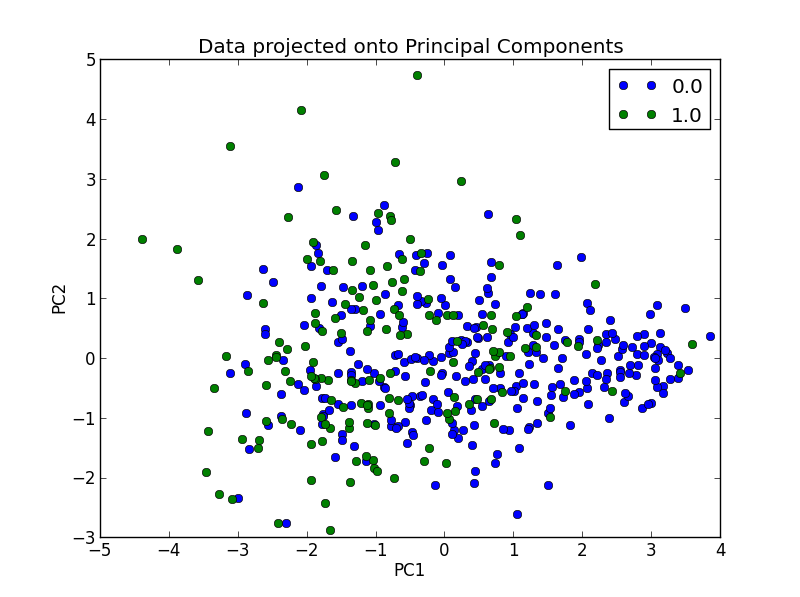
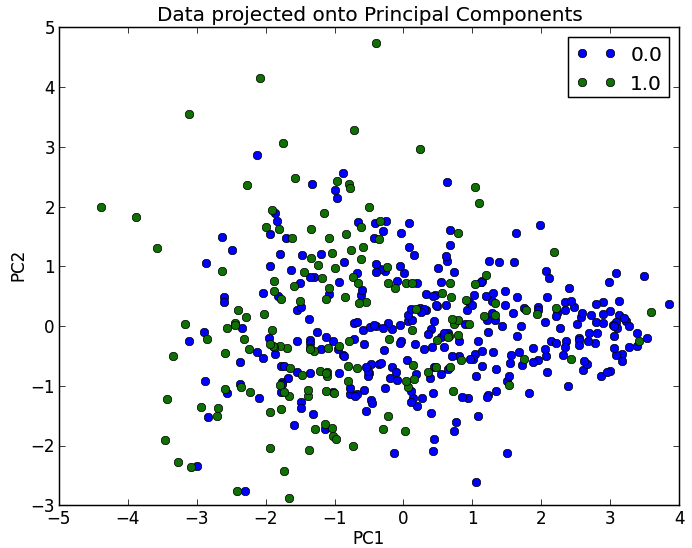
Adjusting images

diff --git a/Projekt 1/Rapport/PCA.tex b/Projekt 1/Rapport/PCA.tex
@@ -5,7 +5,8 @@
 In Figure \ref{VariancePCA}, we can see how the variance is explained by the principal component. We can see that the first principal component explains 32\% of the variance, while the second component explains 13\% of the variance. This means that we can explain 45\% of the total variance by using the two first principal components. Furthermore one can see from the graph that we need 5 principal components in order to explain 75\% of the variance, and at least 7 components to explain 90\% of the variance.
 
 \begin{figure}[H]
-\includegraphics[scale=0.75]{pictures/PCAPosAndNeg.png}
+\centering
+\includegraphics[width=7cm, keepaspectratio=true]{pictures/PCAPosAndNeg.png}
 \caption{Showing how the variance is explained by the principal components.}
 \label{VariancePCA}
 \end{figure}
@@ -37,7 +38,8 @@ PC9 & -0.0141 & -0.0478 & 0.0719 & -0.7575 & -0.0288 & -0.0406 & 0.5040 & 0.0331
 We can see the data projected onto the first two principal components in Figure \ref{PCAProjected}. At first glance it is hard to see a pattern. However one can see that most of the sick people are located in a direction, where the first principal component is negative. By comparing to how the attributes are described in this component, as shown in Figure \ref{PCADirections}, we see that this principal component are pointing in the negative direction for all the attributes, except typea which is hardly described in this component. And since we have a lot of ill subjects in this negative direction of principal component 1, it indicates that these people have high values in these attributes. Meaning these subjects have a tendency to have high adiposity for instance. The data has been standardized for doing this principal component analysis, meaning that Figure \ref{PCAProjected} indicates that many of the ill subjects has values above the mean in most attributes.
 
 \begin{figure}[H]
-\includegraphics[scale=0.75]{pictures/projectedToPCA.png}
+\centering
+\includegraphics[width=7cm, keepaspectratio=true]{pictures/projectedToPCA.png}
 \caption{Projection of data onto first two principal components.}
 \label{PCAProjected}
 \end{figure}

diff --git a/Projekt 1/Rapport/boxplot.tex b/Projekt 1/Rapport/boxplot.tex
@@ -4,8 +4,9 @@ In the following section we will discuss what the boxplots of the attributes tel
 Below is a figure representing the boxplot for the referenced attribute.
 \begin{figure}[H]
 \centering
-\includegraphics[width=12cm, keepaspectratio=true]{pictures/boxplot.png}
+\includegraphics[width=9cm, keepaspectratio=true]{pictures/boxplot.png}
 \caption{\footnotesize Boxplots}
+\vspace{-.5cm}
 \label{boxplot}
 \end{figure}
 \paragraph{SBP - Systolic Blood Pressure} shows us that most of the measured blood pressure is close to 130 mmHg. However, we see that there is some outliers in the dataset. This raises some suspicion to the readings. According to other sources \footnote{http://en.wikipedia.org/wiki/Blood\_pressure}, when the blood pressure rises above 180 mmHg for a longer period of time, organs will start to fail. This could indicate that some of the data are incorrect.
@@ -16,7 +17,7 @@ In total there are 15 outliers in this attribute, for comparison the size of the
 \paragraph{ldl - low density lipoprotein cholesterol} is measured in mmol/L. Anything above 4.9 is considered a high cholesterol \footnote{http://www.mayoclinic.com/health/cholesterol-levels/CL00001}. This seems to be consistent with the data from the boxplot. But again there are some outliers, and it does seem odd to have an ldl value more than tripple what is considered to be high.
 Here 14 of our 462 data values are outliers.%In total there are 14/462 outliers in this attribute.
 
-\paragraph{Adiposity - BAI} is an index number to group people by their size, much like BMI. The boxplot shows no outliers, and the average is consistent with what is considered to be normal. \footnote{http://easycalculation.com/health/body-adiposity-index.php}
+\paragraph{Adiposity} is an index number to group people by their size, much like BMI. The boxplot shows no outliers, and the average is consistent with what is considered to be normal \footnote{http://easycalculation.com/health/body-adiposity-index.php}.
 
 \paragraph{Famhist} is a binary value, and does not tell us anything useful in a boxplot.%Off to the next attribute.
 

diff --git a/Projekt 1/Rapport/histogram.tex b/Projekt 1/Rapport/histogram.tex
@@ -2,18 +2,13 @@
 In this section the histograms of the attributes will be covered. In the next section the boxplots for the attributes are explained. The attributes will be explained in details there.
 \begin{figure}[H]
 \centering
-\includegraphics[width=12cm, keepaspectratio=true]{pictures/histogram.png}
-\caption{\footnotesize Histograms ?? (Lille figure -> skal zoome ind)}
+\includegraphics[width=11cm, keepaspectratio=true]{pictures/histogram.png}
+\vspace{-0.2cm}
+\caption{\footnotesize Histograms}
+\vspace{-0.5cm}
 \label{histogram}
 \end{figure}
-Several of our attributes seem to be close to normally distributed. These are:
-\begin{itemize}
-\item SBP - Systolic Blood Pressure
-\item ldl - low density lipoprotein cholesterol
-\item typeA
-\item Adiposity
-\item Obesity
-\end{itemize}
+Several of our attributes seem to be close to normally distributed. These are listed below:
 \paragraph{Adiposity and Obesity}
 The latter two, Adiposity and obesity are closely connected, since they both concern the size of the body. How closely connected they are will be explained later.
 
@@ -21,15 +16,7 @@ The latter two, Adiposity and obesity are closely connected, since they both con
 
 \paragraph{SBP - Systolic Blood Pressure} 	seems to be peaking at around 130, which is considered a little bit high, but since the SBP is rising as you get older, and the average age of our dataset is over 40, this seems reasonable. The curve is extending far to the right, which will be covered in the next section covering the boxplot.
 
-Those attributes not distributed normally:
-\begin{itemize}
-\item Tobacco
-\item Famhist
-\item Alcohol
-\item Age
-\item CHD
-\end{itemize}
-
+Those attributes not distributed normally are listed below:
 \paragraph{Tobacco} indicates that most persons in the dataset does not smoke.
 \paragraph{Famhist} Is a binary attribute. Showing a few more people in the dataset does not have any family members with CHD, than who does have family history with CHD.
 \paragraph{Alcohol} looks a lot like tobacco. How closely related they are will be considered later.

diff --git a/Projekt 1/Rapport/comparison.tex b/Projekt 1/Rapport/comparison.tex
@@ -5,7 +5,8 @@ Some of the attributes we thought would be interesting to compare to each other,
 
 \begin{figure}[H]
 \centering
-\includegraphics[width=12cm, keepaspectratio=true]{pictures/tobaccoAlcohol.png}
+\includegraphics[width=7cm, keepaspectratio=true]{pictures/tobaccoAlcohol.png}
+\vspace{-0.4cm}
 \caption{\footnotesize Tobacco vs. Alcohol}
 \label{AlcoTobac}
 \end{figure}
@@ -16,7 +17,8 @@ When you look at figure \ref{ObeAsi} you see the that the higher the values get 
 
 \begin{figure}[H]
 \centering
-\includegraphics[width=12cm, keepaspectratio=true]{pictures/adiposityObesity.png}
+\includegraphics[width=7cm, keepaspectratio=true]{pictures/adiposityObesity.png}
+\vspace{-0.4cm}
 \caption{\footnotesize Adiposity vs. Obesity}
 \label{ObeAsi}
 \end{figure}
@@ -25,7 +27,8 @@ In figure \ref{typeAlco} we try to see if more aggressive subjects have a higher
 
 \begin{figure}[H]
 \centering
-\includegraphics[width=12cm, keepaspectratio=true]{pictures/typeaalcohol.png}
+\includegraphics[width=7cm, keepaspectratio=true]{pictures/typeaalcohol.png}
+\vspace{-0.4cm}
 \caption{\footnotesize Type-a vs. Alcohol}
 \label{typeAlco}
 \end{figure}

diff --git a/Projekt 1/Rapport/statistics.tex b/Projekt 1/Rapport/statistics.tex
@@ -1,15 +1,15 @@
 %\section{Statistics of attribute data}
 
-\begin{tabular}{| l | l | l | l | l |}
+\begin{longtable}{lcccc}
 \hline
  & Mean & Variance & Max & Min \\ \hline
-sbp	& 138.33 & 420.10 & 218.0 & 101.0 \\ \hline
-tobacco	& 3.64 & 21.10 & 31.20 & 0.0 \\ \hline
-ldl	&  4.74 & 4.29 & 15.33 & 0.98 \\ \hline
-adiposity & 25.41 & 60.54 & 42.49 & 6.74 \\ \hline
-famhist & 0.42 & 0.24 & 1.0 & 0.0 \\ \hline
-typea	& 53.10 & 96.38 & 78.0 & 13.0 \\ \hline
-obesity & 26.04 & 17.76 & 46.58 & 14.70 \\ \hline
-alcohol	& 17.04 & 599.32 & 147.19 & 0.0 \\ \hline
+sbp	& 138.33 & 420.10 & 218.0 & 101.0 \\ 
+tobacco	& 3.64 & 21.10 & 31.20 & 0.0 \\ 
+ldl	&  4.74 & 4.29 & 15.33 & 0.98 \\ 
+adiposity & 25.41 & 60.54 & 42.49 & 6.74 \\
+famhist & 0.42 & 0.24 & 1.0 & 0.0 \\
+typea	& 53.10 & 96.38 & 78.0 & 13.0 \\
+obesity & 26.04 & 17.76 & 46.58 & 14.70 \\
+alcohol	& 17.04 & 599.32 & 147.19 & 0.0 \\
 age	& 42.82 & 213.42 & 64.0 & 15.0 \\ \hline
-\end{tabular}
+\end{longtable}

diff --git a/Projekt 1/Rapport/visualization.tex b/Projekt 1/Rapport/visualization.tex
@@ -1,7 +1,7 @@
 \section{Data Visualization}
 \input{histogram}
 \input{boxplot}
-
+\input{comparison}
 \input{PCA}
 
 \input{correlation}
